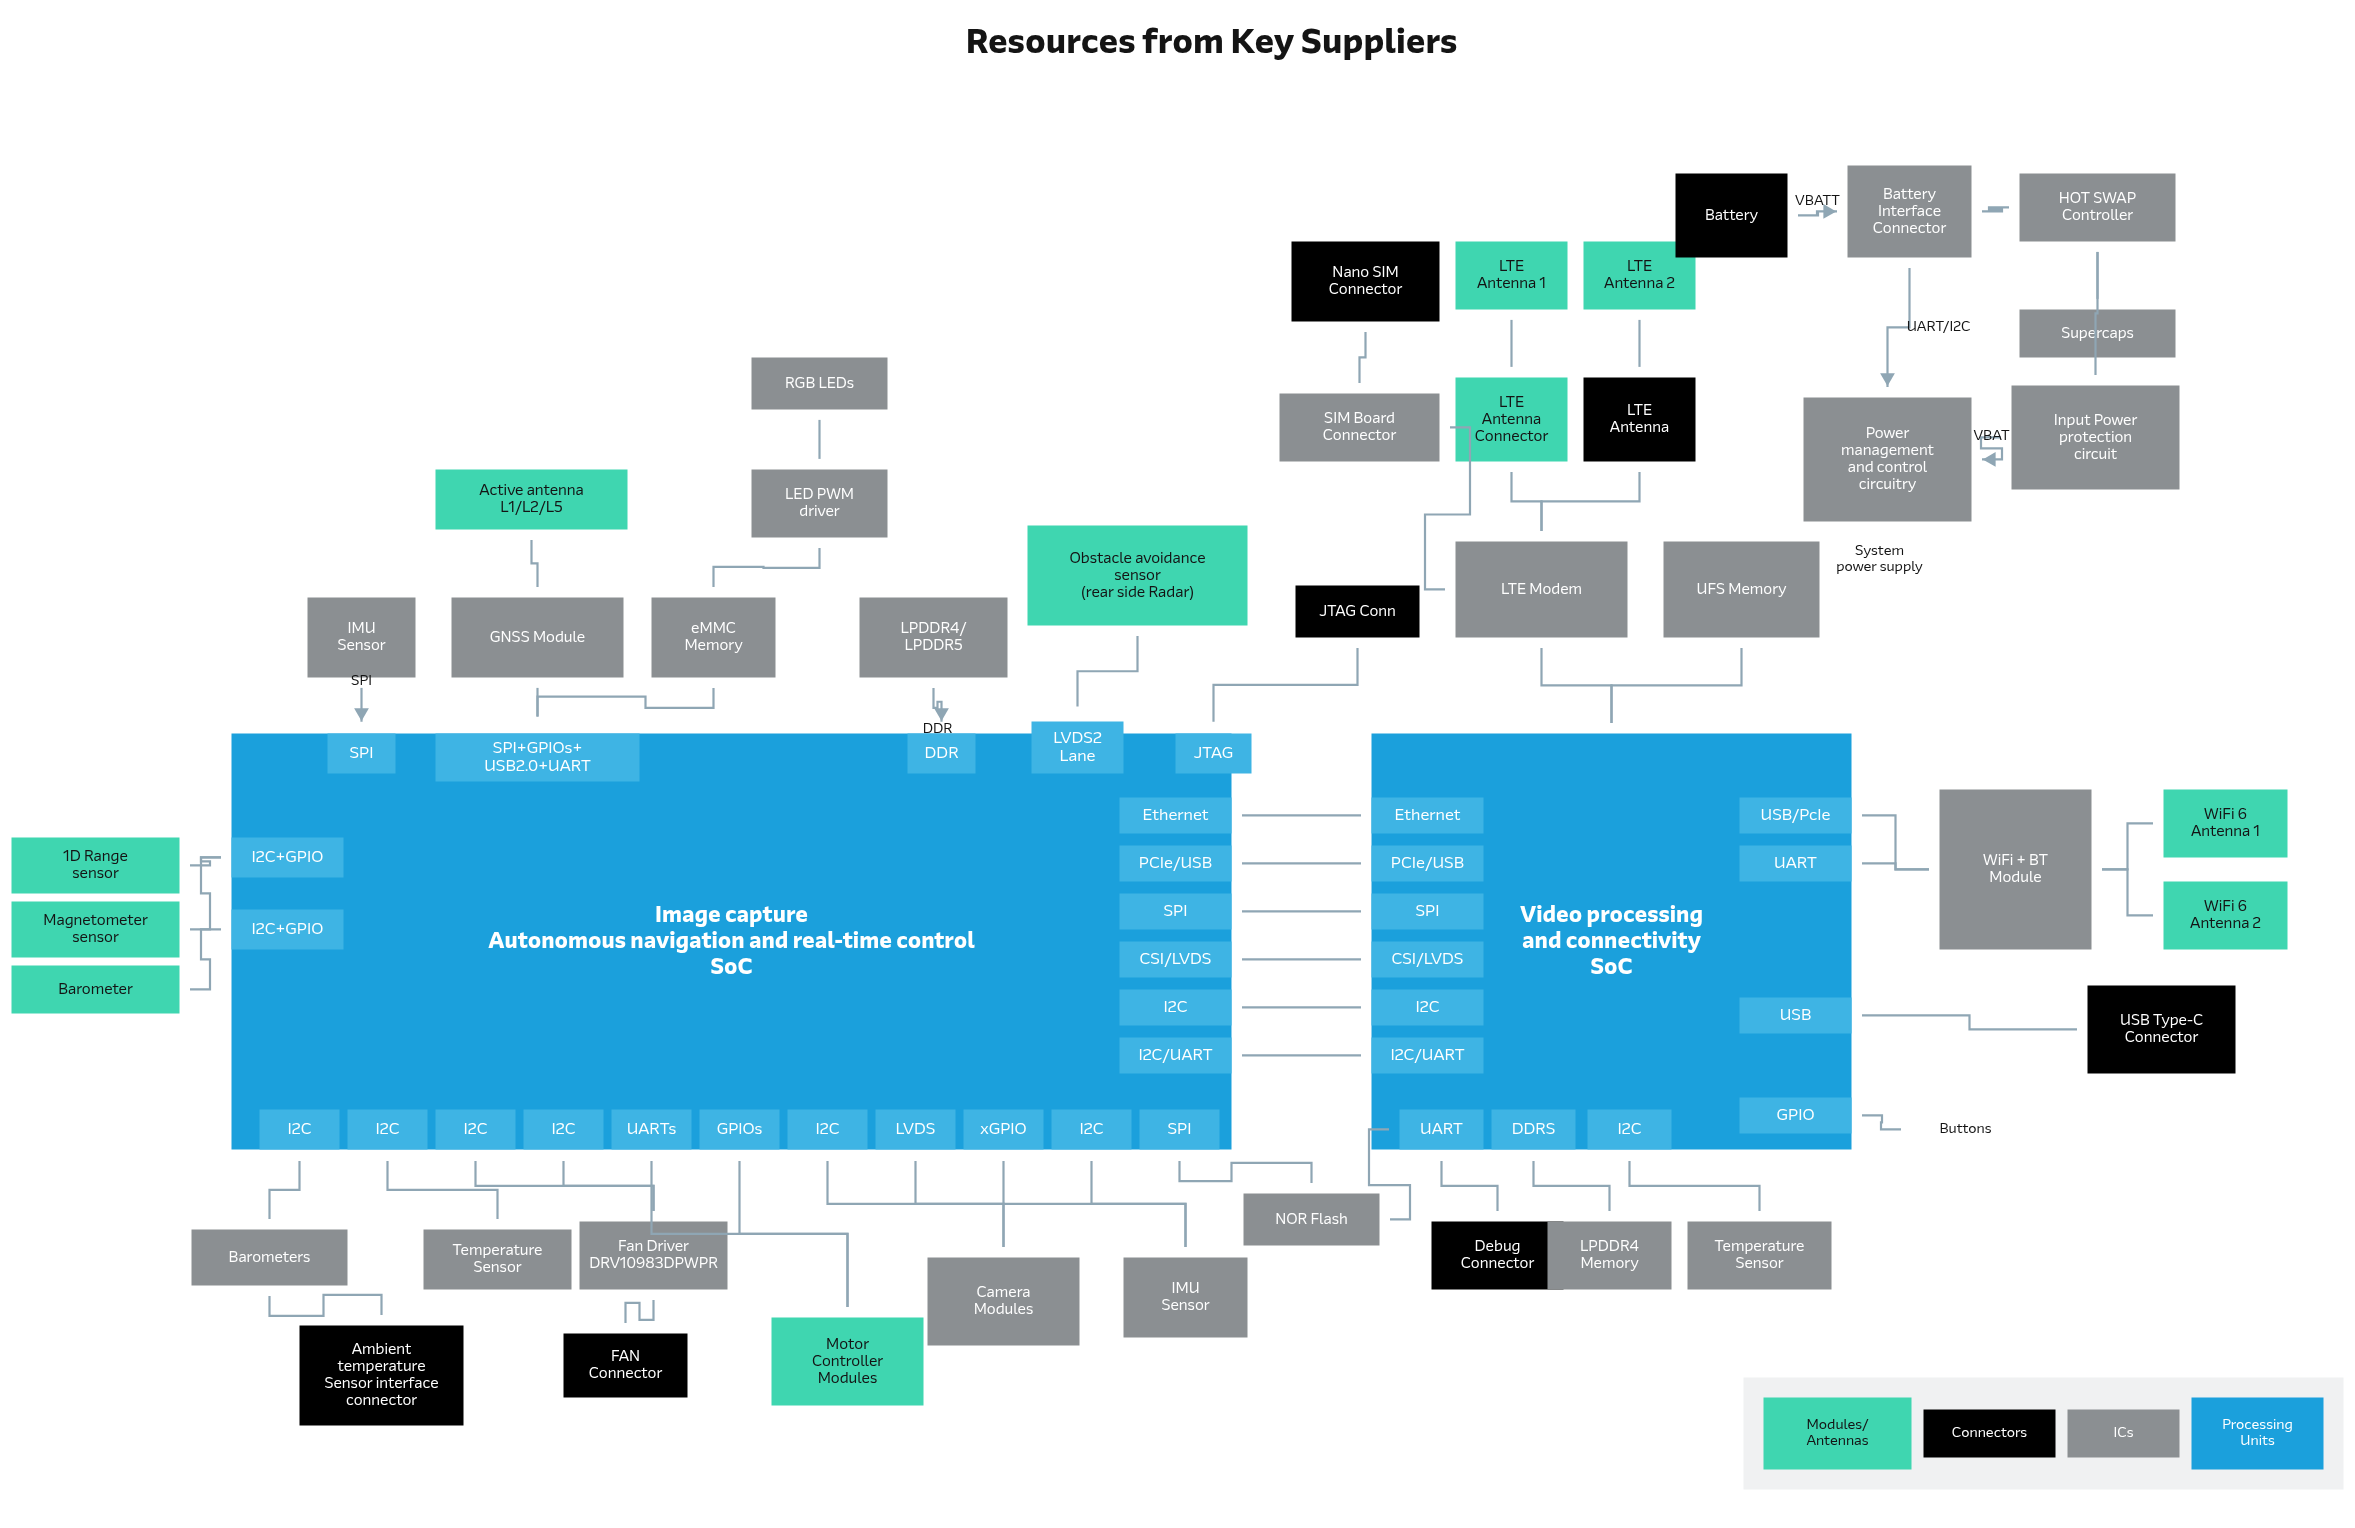
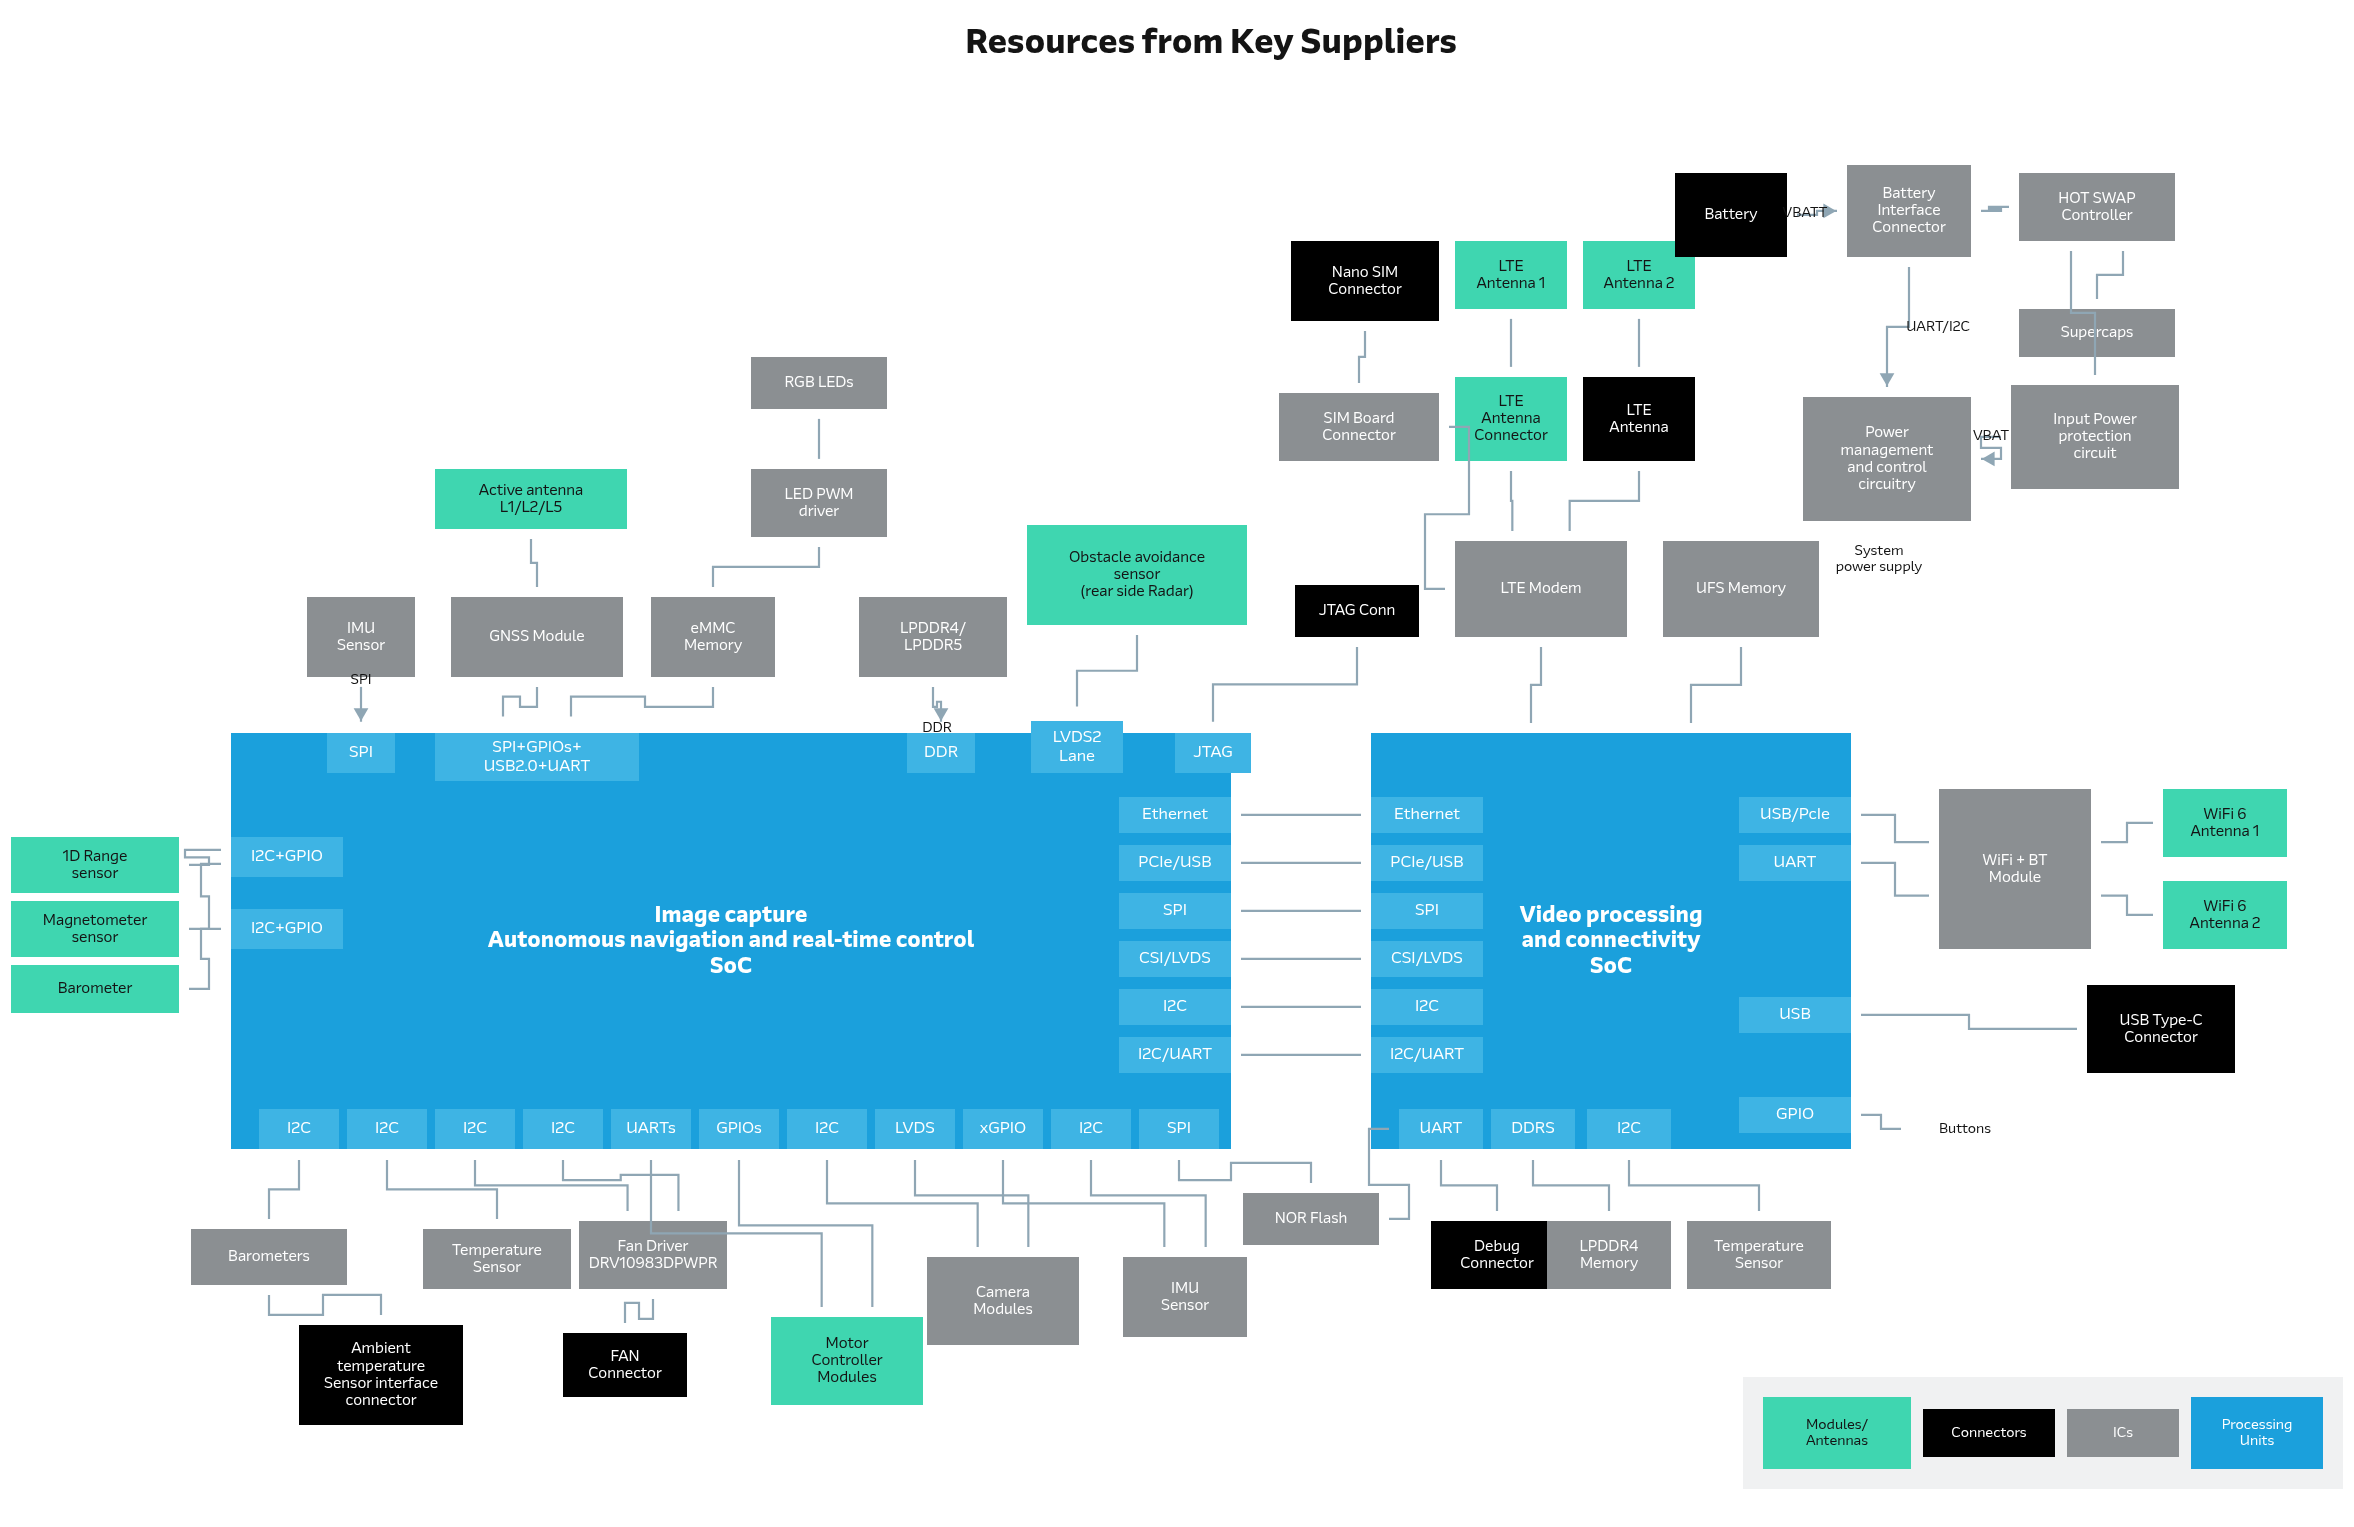
Let a block take several wires per side, spread along the edge
A side accepted any number of wires already, but attached every one of them to
the same point: the port was a 9px dot in the middle of the edge with
`fromSpot: Spot.Right`. Four wires out of a distribution board left as a single
line and split further out, which is not what the reference drawing shows and
not what someone drawing by hand expects.

Each side is now a rail down the whole edge, with the `*Side` spots and
`portSpreading: Evenly`, so GoJS distributes the wires along it. The rail has
to span the edge for that to mean anything — spreading is computed across the
port's own extent, so a 9px port spreads across 9px, which is what the first
attempt at this did.

The hover affordance still works: it keys off port opacity, not the port's
shape, so the edge lights up instead of a dot.

This also improves the committed diagrams — the distribution board's four ESC
feeds now leave from four points on its left edge, as in the artwork. Explicit
pins remain for nets that must sit at a *particular* spot, like a named
interface on an SoC.

Verified by dragging four wires out of one side in the built app: four links,
all on port R, at four distinct points.

diff --git a/diagram-poc/frontend/src/app/features/gojs-editor/gojs-editor.component.ts b/diagram-poc/frontend/src/app/features/gojs-editor/gojs-editor.component.ts
@@ -735,16 +735,31 @@ export class GojsEditorComponent implements OnInit, AfterViewInit, OnDestroy {
   }
 
   private buildTemplates($: typeof go.GraphObject.make): void {
-    const sidePort = (id: string, spot: go.Spot) => $(
-      go.Shape, 'Circle',
+    /**
+     * A connection rail down a whole edge, not a dot in the middle of it.
+     *
+     * As a 9px dot with `fromSpot: Spot.Right`, a side accepted any number of
+     * wires but attached every one of them to the same point — four wires out
+     * of a distribution board left as one line and split further out, which is
+     * not what the block diagram shows. The `*Side` spots plus
+     * `portSpreading` let GoJS distribute them, but it distributes across the
+     * *port's* extent, so the port has to span the edge for that to mean
+     * anything.
+     */
+    const sidePort = (id: string, spot: go.Spot, side: go.Spot, vertical: boolean) => $(
+      go.Shape, 'RoundedRectangle',
       {
-        desiredSize: new go.Size(9, 9), fill: '#0f172a', stroke: '#22d3ee', strokeWidth: 1.5,
+        parameter1: 4, fill: 'rgba(34,211,238,0.30)', stroke: '#22d3ee', strokeWidth: 1,
+        desiredSize: vertical ? new go.Size(9, NaN) : new go.Size(NaN, 9),
+        stretch: vertical ? go.GraphObject.Vertical : go.GraphObject.Horizontal,
         cursor: 'crosshair', opacity: 0, alignment: spot, alignmentFocus: go.Spot.Center,
-        portId: id, fromLinkable: true, toLinkable: true, fromSpot: spot, toSpot: spot,
+        portId: id, fromLinkable: true, toLinkable: true, fromSpot: side, toSpot: side,
       });
     const sidePorts = () => [
-      sidePort('T', go.Spot.Top), sidePort('R', go.Spot.Right),
-      sidePort('B', go.Spot.Bottom), sidePort('L', go.Spot.Left),
+      sidePort('T', go.Spot.Top, go.Spot.TopSide, false),
+      sidePort('R', go.Spot.Right, go.Spot.RightSide, true),
+      sidePort('B', go.Spot.Bottom, go.Spot.BottomSide, false),
+      sidePort('L', go.Spot.Left, go.Spot.LeftSide, true),
     ];
     const sideSpot = (s: string) => {
       const sp = go.Spot.parse(s);
@@ -775,7 +790,8 @@ export class GojsEditorComponent implements OnInit, AfterViewInit, OnDestroy {
 
     const block = $(
       go.Node, 'Spot',
-      { locationSpot: go.Spot.Center, resizable: true, resizeObjectName: 'BODY', toolTip: this.nodeTip($), ...hover },
+      { locationSpot: go.Spot.Center, resizable: true, resizeObjectName: 'BODY', toolTip: this.nodeTip($),
+        portSpreading: go.PortSpreading.Evenly, ...hover },
       new go.Binding('location', 'loc', go.Point.parse).makeTwoWay(go.Point.stringify),
       new go.Binding('visible', 'hidden', (h) => !h),
       $(go.Panel, 'Auto', body, { name: 'BODY' }, sizeBind(),
@@ -799,7 +815,8 @@ export class GojsEditorComponent implements OnInit, AfterViewInit, OnDestroy {
 
     const part = $(
       go.Node, 'Spot',
-      { locationSpot: go.Spot.Center, resizable: true, resizeObjectName: 'BODY', toolTip: this.nodeTip($), ...hover },
+      { locationSpot: go.Spot.Center, resizable: true, resizeObjectName: 'BODY', toolTip: this.nodeTip($),
+        portSpreading: go.PortSpreading.Evenly, ...hover },
       new go.Binding('location', 'loc', go.Point.parse).makeTwoWay(go.Point.stringify),
       new go.Binding('visible', 'hidden', (h) => !h),
       $(go.Panel, 'Auto', body, { name: 'BODY' }, sizeBind(),
@@ -826,7 +843,7 @@ export class GojsEditorComponent implements OnInit, AfterViewInit, OnDestroy {
 
     const image = $(
       go.Node, 'Spot',
-      { locationSpot: go.Spot.Center, resizable: true, resizeObjectName: 'PIC', ...hover },
+      { locationSpot: go.Spot.Center, resizable: true, resizeObjectName: 'PIC', portSpreading: go.PortSpreading.Evenly, ...hover },
       new go.Binding('location', 'loc', go.Point.parse).makeTwoWay(go.Point.stringify),
       new go.Binding('visible', 'hidden', (h) => !h),
       $(go.Panel, 'Vertical', body,
@@ -841,7 +858,8 @@ export class GojsEditorComponent implements OnInit, AfterViewInit, OnDestroy {
 
     const shape = $(
       go.Node, 'Spot',
-      { locationSpot: go.Spot.Center, resizable: true, resizeObjectName: 'SHAPE', toolTip: this.nodeTip($), ...hover },
+      { locationSpot: go.Spot.Center, resizable: true, resizeObjectName: 'SHAPE', toolTip: this.nodeTip($),
+        portSpreading: go.PortSpreading.Evenly, ...hover },
       new go.Binding('location', 'loc', go.Point.parse).makeTwoWay(go.Point.stringify),
       new go.Binding('visible', 'hidden', (h) => !h),
       $(go.Panel, 'Spot', body,
@@ -1042,7 +1060,7 @@ export class GojsEditorComponent implements OnInit, AfterViewInit, OnDestroy {
     this.diagram.groupTemplate = $(
       go.Group, 'Spot',
       { locationSpot: go.Spot.Center, ungroupable: true, computesBoundsAfterDrag: true,
-        handlesDragDropForMembers: true },
+        handlesDragDropForMembers: true, portSpreading: go.PortSpreading.Evenly },
       new go.Binding('location', 'loc', go.Point.parse).makeTwoWay(go.Point.stringify),
       new go.Binding('isSubGraphExpanded', 'expanded').makeTwoWay(),
       $(go.Panel, 'Auto',

diff --git a/diagram-poc/samples/drone/render-harness.html b/diagram-poc/samples/drone/render-harness.html
@@ -38,12 +38,18 @@ window.buildDiagram = function(modelJson, geo) {
     const m = Math.min(dl, dr, dt, db);
     return m === dl ? go.Spot.Left : m === dr ? go.Spot.Right : m === dt ? go.Spot.Top : go.Spot.Bottom;
   };
-  const sidePort = (id, spot) => $(go.Shape, 'Circle', {
-    desiredSize: new go.Size(9,9), fill:'#0f172a', stroke:'#22d3ee', strokeWidth:1.5,
+  // A connection rail, not a dot: the whole edge is linkable, so several wires
+  // can leave one side and GoJS spreads them along it.
+  const sidePort = (id, spot, side, vertical) => $(go.Shape, 'RoundedRectangle', {
+    parameter1: 4, fill:'rgba(34,211,238,0.30)', stroke:'#22d3ee', strokeWidth:1,
+    desiredSize: vertical ? new go.Size(9, NaN) : new go.Size(NaN, 9),
+    stretch: vertical ? go.GraphObject.Vertical : go.GraphObject.Horizontal,
     cursor:'crosshair', opacity:0, alignment:spot, alignmentFocus:go.Spot.Center,
-    portId:id, fromLinkable:true, toLinkable:true, fromSpot:spot, toSpot:spot });
-  const sidePorts = () => [ sidePort('T',go.Spot.Top), sidePort('R',go.Spot.Right),
-    sidePort('B',go.Spot.Bottom), sidePort('L',go.Spot.Left) ];
+    portId:id, fromLinkable:true, toLinkable:true,
+    fromSpot:side||spot, toSpot:side||spot });
+  const SIDE = { T:[go.Spot.Top,go.Spot.TopSide,false], R:[go.Spot.Right,go.Spot.RightSide,true],
+                 B:[go.Spot.Bottom,go.Spot.BottomSide,false], L:[go.Spot.Left,go.Spot.LeftSide,true] };
+  const sidePorts = () => Object.keys(SIDE).map((k)=> sidePort(k, SIDE[k][0], SIDE[k][1], SIDE[k][2]));
   const pinPort = $(go.Panel, 'Spot',
     new go.Binding('alignment','spot',go.Spot.parse),
     $(go.Shape,'Circle',{ desiredSize:new go.Size(11,11), fill:'#0f172a', stroke:'#22d3ee',
@@ -57,7 +63,7 @@ window.buildDiagram = function(modelJson, geo) {
 
   // ---- block ----
   const block = $(go.Node,'Spot',
-    { locationSpot:go.Spot.Center, resizable:true, resizeObjectName:'BODY' },
+    { locationSpot:go.Spot.Center, resizable:true, resizeObjectName:'BODY', portSpreading: go.PortSpreading.Evenly },
     new go.Binding('location','loc',go.Point.parse),
     $(go.Panel,'Auto', body, { name:'BODY' }, sizeBind(),
       $(go.Shape,'RoundedRectangle',
@@ -78,7 +84,7 @@ window.buildDiagram = function(modelJson, geo) {
 
   // ---- shape ----
   const shape = $(go.Node,'Spot',
-    { locationSpot:go.Spot.Center, resizable:true, resizeObjectName:'SHAPE' },
+    { locationSpot:go.Spot.Center, resizable:true, resizeObjectName:'SHAPE', portSpreading: go.PortSpreading.Evenly },
     new go.Binding('location','loc',go.Point.parse),
     $(go.Panel,'Spot', body,
       $(go.Shape,'Rectangle',
@@ -165,7 +171,7 @@ window.buildDiagram = function(modelJson, geo) {
   // container. New optional data: fill, stroke, dashed(bool), titleColor,
   // titleAlign ("0.5 0.05" spot string), titleFont, corner.
   const group = $(go.Group,'Spot',
-    { locationSpot:go.Spot.Center, ungroupable:true, computesBoundsAfterDrag:true, handlesDragDropForMembers:true },
+    { locationSpot:go.Spot.Center, ungroupable:true, computesBoundsAfterDrag:true, handlesDragDropForMembers:true, portSpreading: go.PortSpreading.Evenly },
     new go.Binding('location','loc',go.Point.parse),
     new go.Binding('isSubGraphExpanded','expanded'),
     $(go.Panel,'Auto',

diff --git a/diagram-poc/samples/drone/README.md b/diagram-poc/samples/drone/README.md
@@ -94,6 +94,12 @@ properties panel carries:
 and the wire dock carries colour, style, width, routing, **corners**,
 **arrowhead** and **arrow size** (`corner`, `arrow`, `arrowScale`).
 
+Each side of a block is a **connection rail**, not a single point: drag from an
+edge as many times as you like and the wires spread evenly along it, the way the
+Distribution Board feeds four ESCs. Add explicit pins only when a net has to sit
+at a *particular* place on the edge — a named interface on an SoC — rather than
+wherever the spreading puts it.
+
 Two behaviours worth knowing:
 
 - Setting any colour by hand also sets `fixedColor`. `retheme()` rewrites
